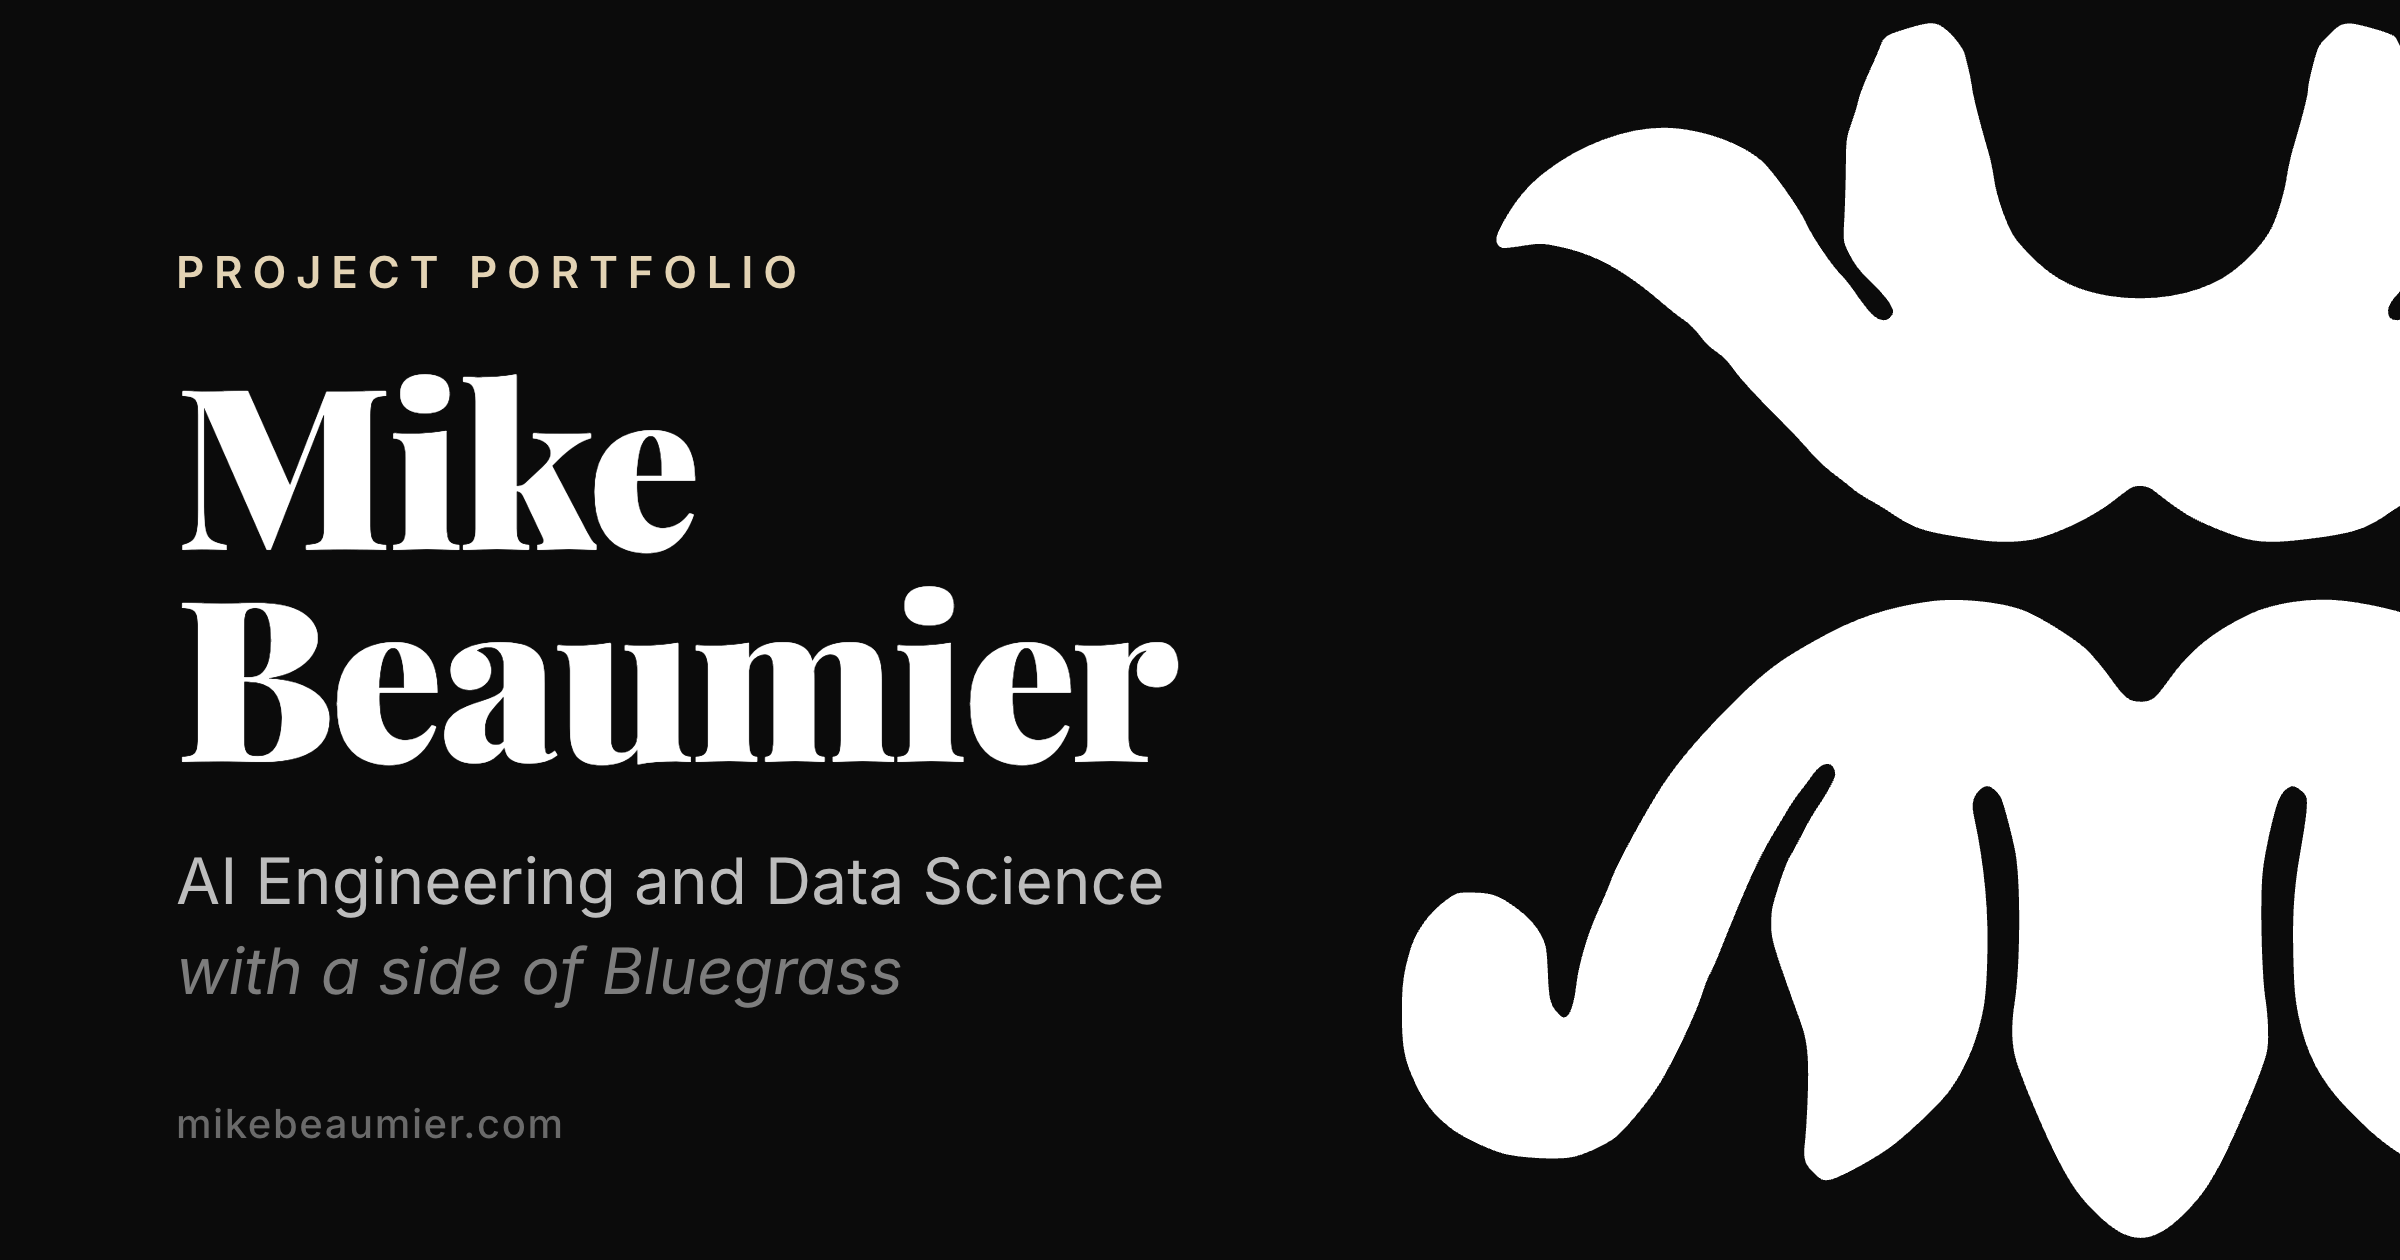
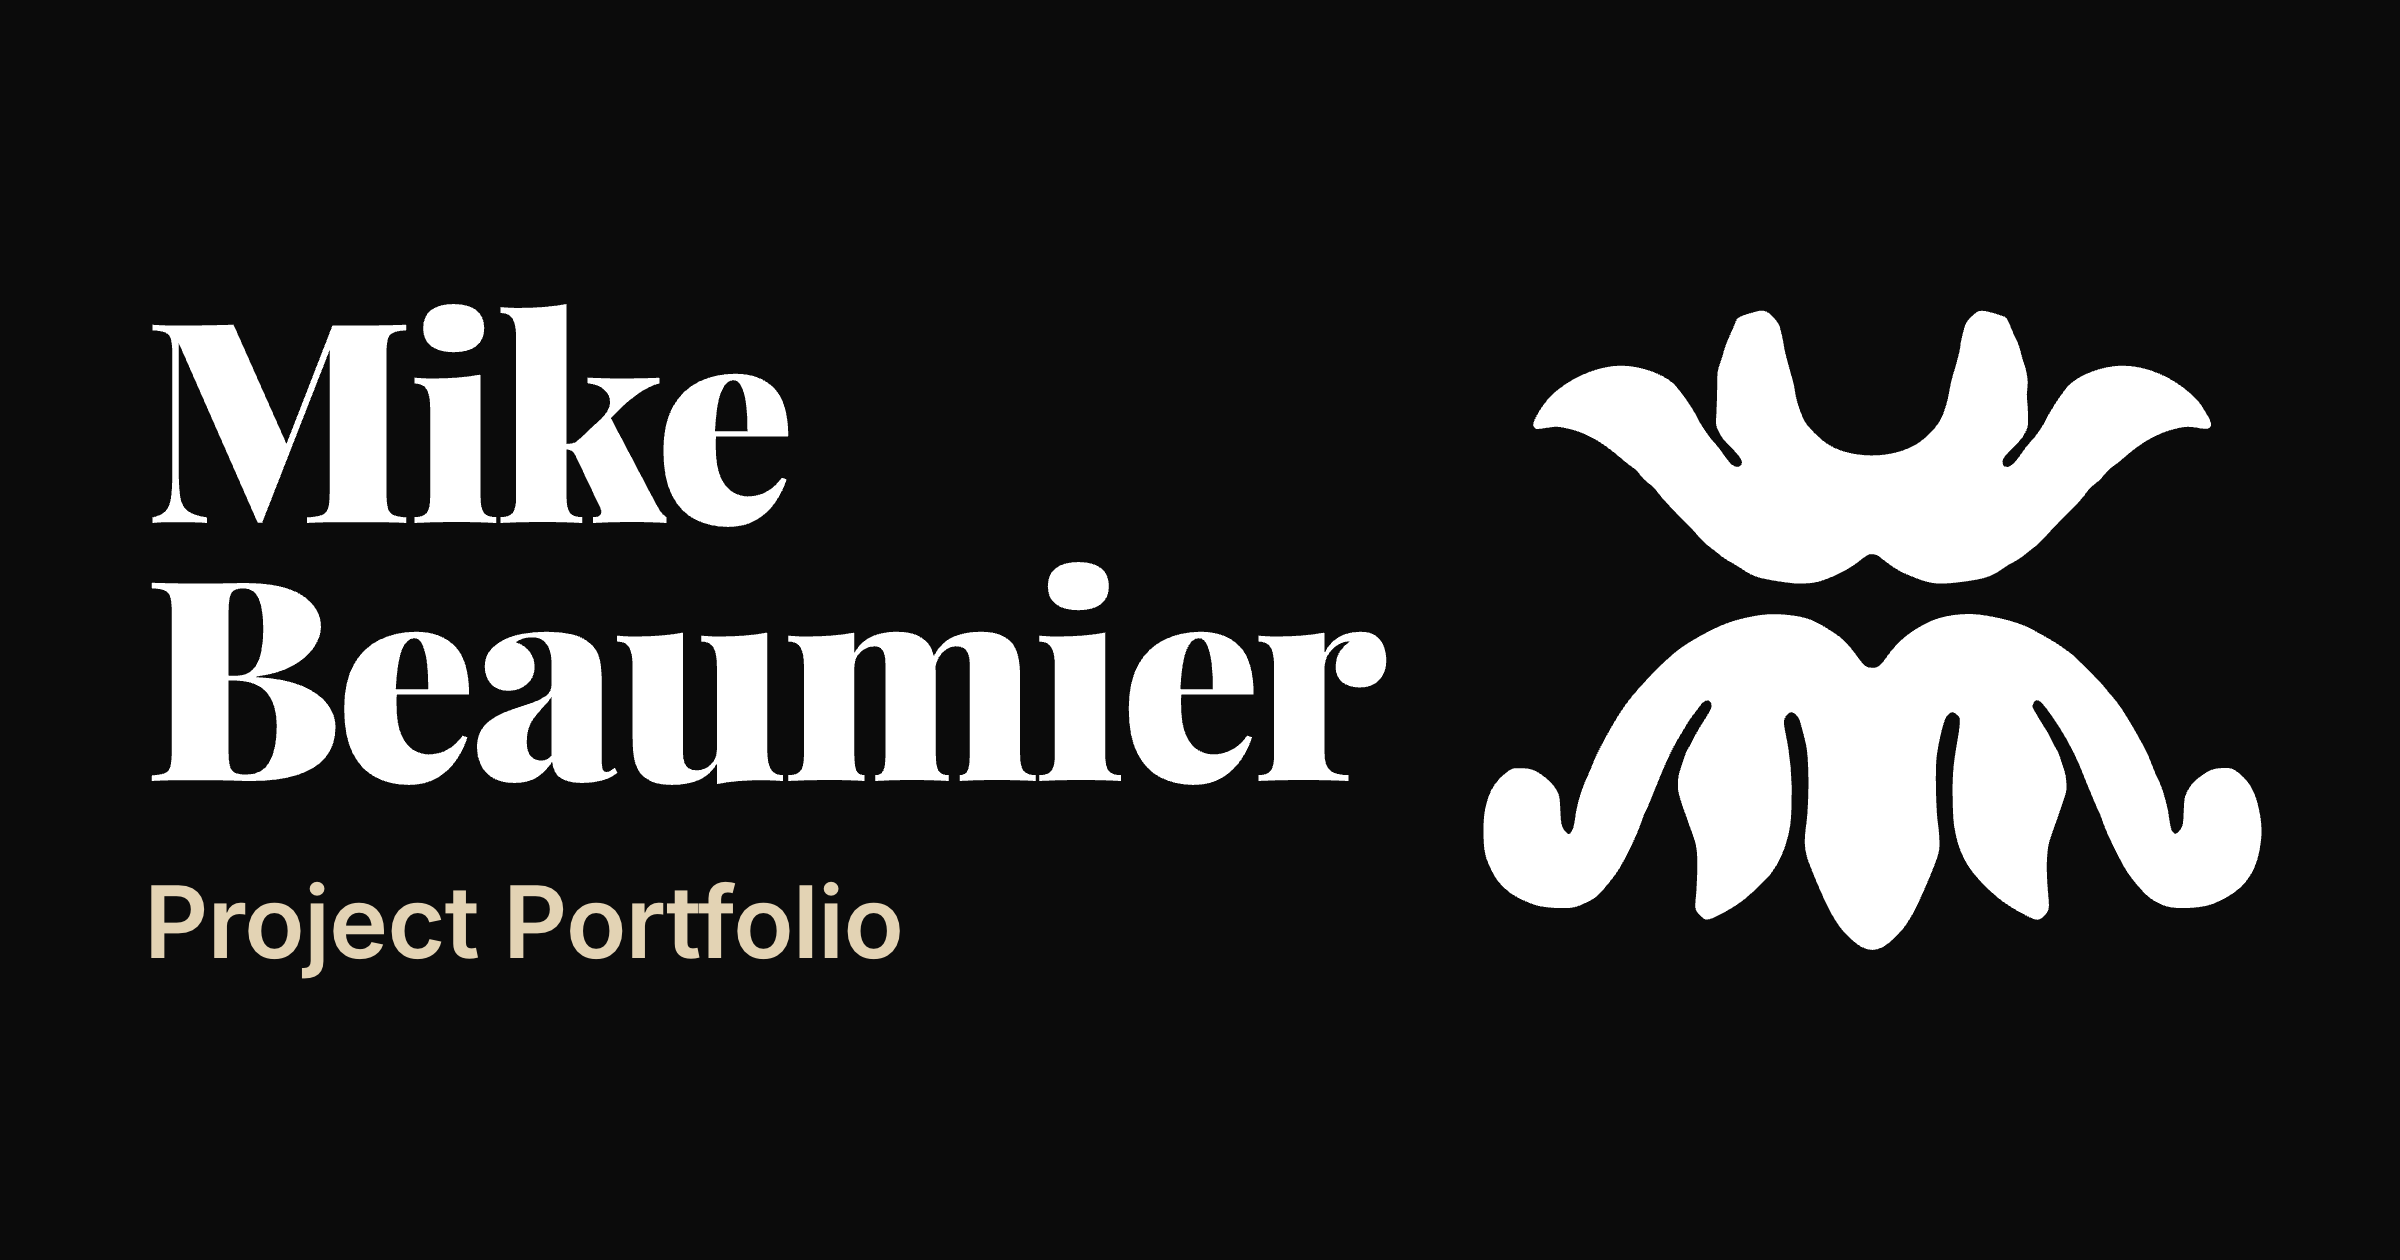
Bolder share cards for LinkedIn's thumbnail: bigger name, one line, whole inlay

diff --git a/docs/og/og.html b/docs/og/og.html
@@ -1,26 +1,21 @@
 <!DOCTYPE html>
-<!-- Share card source. Rendered by render.sh at 1200×630, 2x. og.html?section=Writing adds the
-     label above the name; no section is the site card. See README.md -->
+<!-- Share card source. Rendered by render.sh at 1200×630, 2x. og.html?section=Writing puts the
+     section name under Mike's name; no section is the site card. See README.md -->
 <html><head><meta charset="utf-8">
-<link href="https://fonts.googleapis.com/css2?family=Playfair+Display:wght@900&family=Inter:ital,wght@0,400;0,500;0,600;1,400&display=block" rel="stylesheet">
+<link href="https://fonts.googleapis.com/css2?family=Playfair+Display:wght@900&family=Inter:wght@600&display=block" rel="stylesheet">
 <style>
+  /* LinkedIn often shows this as a 160×84 thumbnail: keep to a few big elements */
   html, body { margin: 0; }
   body { width: 1200px; height: 630px; overflow: hidden; position: relative; background: #0b0b0b;
     color: #fff; font-family: Inter, sans-serif; -webkit-font-smoothing: antialiased; }
-  /* The favicon's inlay, oversized and cropped by the right edge */
-  .mark { position: absolute; width: 760px; right: -250px; top: 50%; transform: translateY(-50%); }
-  .text { position: absolute; left: 88px; top: 0; bottom: 0; width: 640px; display: flex;
-    flex-direction: column; justify-content: center; }
-  /* Pearl, like a mother-of-pearl inlay: the card's only colour */
-  .section { font-size: 22px; font-weight: 600; letter-spacing: 0.22em; text-transform: uppercase;
-    color: #e3d3b4; margin: 0 0 26px; }
-  .section:empty { display: none; }
-  h1 { font-family: 'Playfair Display', serif; font-weight: 900; font-size: 112px; line-height: 0.95;
-    letter-spacing: -0.015em; margin: 0 0 30px; }
-  .tagline { font-size: 32px; line-height: 1.4; color: #bdbdbd; margin: 0; }
-  .tagline em { color: #7d7d7d; }
-  .domain { position: absolute; left: 88px; bottom: 56px; font-size: 20px; font-weight: 500;
-    letter-spacing: 0.04em; color: #6a6a6a; }
+  .mark { position: absolute; width: 400px; right: 64px; top: 50%; transform: translateY(-50%); }
+  .text { position: absolute; left: 72px; top: 0; bottom: 0; display: flex; flex-direction: column;
+    justify-content: center; }
+  h1 { font-family: 'Playfair Display', serif; font-weight: 900; font-size: 140px; line-height: 0.92;
+    letter-spacing: -0.02em; margin: 0 0 34px; }
+  .line { font-size: 50px; font-weight: 600; letter-spacing: -0.01em; color: #d6d6d6; margin: 0; }
+  /* Pearl, like a mother-of-pearl inlay: marks a section card */
+  .line.section { color: #e3d3b4; }
 </style></head>
 <body>
   <svg class="mark" viewBox="175 254 910 752" aria-hidden="true">
@@ -94,13 +89,15 @@
     </g>
   </svg>
   <div class="text">
-    <p class="section" id="section"></p>
     <h1>Mike<br />Beaumier</h1>
-    <p class="tagline">AI Engineering and Data Science<br /><em>with a side of Bluegrass</em></p>
+    <p class="line" id="line">AI &amp; Data Science</p>
   </div>
-  <div class="domain">mikebeaumier.com</div>
 <script>
-  document.getElementById('section').textContent =
-    new URLSearchParams(location.search).get('section') || '';
+  const section = new URLSearchParams(location.search).get('section');
+  if (section) {
+    const line = document.getElementById('line');
+    line.textContent = section;
+    line.classList.add('section');
+  }
 </script>
 </body></html>

diff --git a/docs/og/README.md b/docs/og/README.md
@@ -1,17 +1,20 @@
 # Share card
 
 `public/og.png` is the image link previews show (LinkedIn, Slack, iMessage, X) for pages
-without their own `image`: "Mike Beaumier" and "AI Engineering and Data Science with a side of
-Bluegrass" on the left, and the favicon's inlay (`public/favicon.svg`) oversized and cropped by
-the right edge, on off-black. The section label is pearl, the card's only colour. Keep it bold:
-LinkedIn often shows it as a ~160px thumbnail.
+without their own `image`: "Mike Beaumier" over two lines and "AI & Data Science" on the left,
+and the favicon's inlay (`public/favicon.svg`) whole on the right, on off-black.
 
-Each section gets the same card with a label above it: Work History (`/cv/`), Writing
-(`/blog/`, including posts without their own image), Project Portfolio (`/projects/`) and
-Consulting (`/consulting/`), in `public/og/`. `Base.astro` picks the card by path.
+LinkedIn usually shows it as a ~160×84 thumbnail it scales itself, so a sharper source doesn't
+help: only a few big elements survive. Check any change at that size
+(`sips -z 84 160 public/og.png --out /tmp/thumb.png`).
+
+Each section's card puts its name, in pearl, in place of "AI & Data Science": Work History
+(`/cv/`), Writing (`/blog/`, including posts without their own image), Project Portfolio
+(`/projects/`) and Consulting (`/consulting/`), in `public/og/`. `Base.astro` picks the card by
+path, and adds a hash of the file to its URL so LinkedIn re-fetches a re-rendered card.
 
 `og.html` is the source, laid out at 1200×630 (1.91:1) and rendered at 2x, so 2400×1260;
-`og.html?section=Writing` adds a label. It loads the site fonts from Google Fonts. To re-render
+`og.html?section=Writing` renders a section's card. It loads the site fonts from Google Fonts. To re-render
 every card, from the repo root:
 
 ```bash
